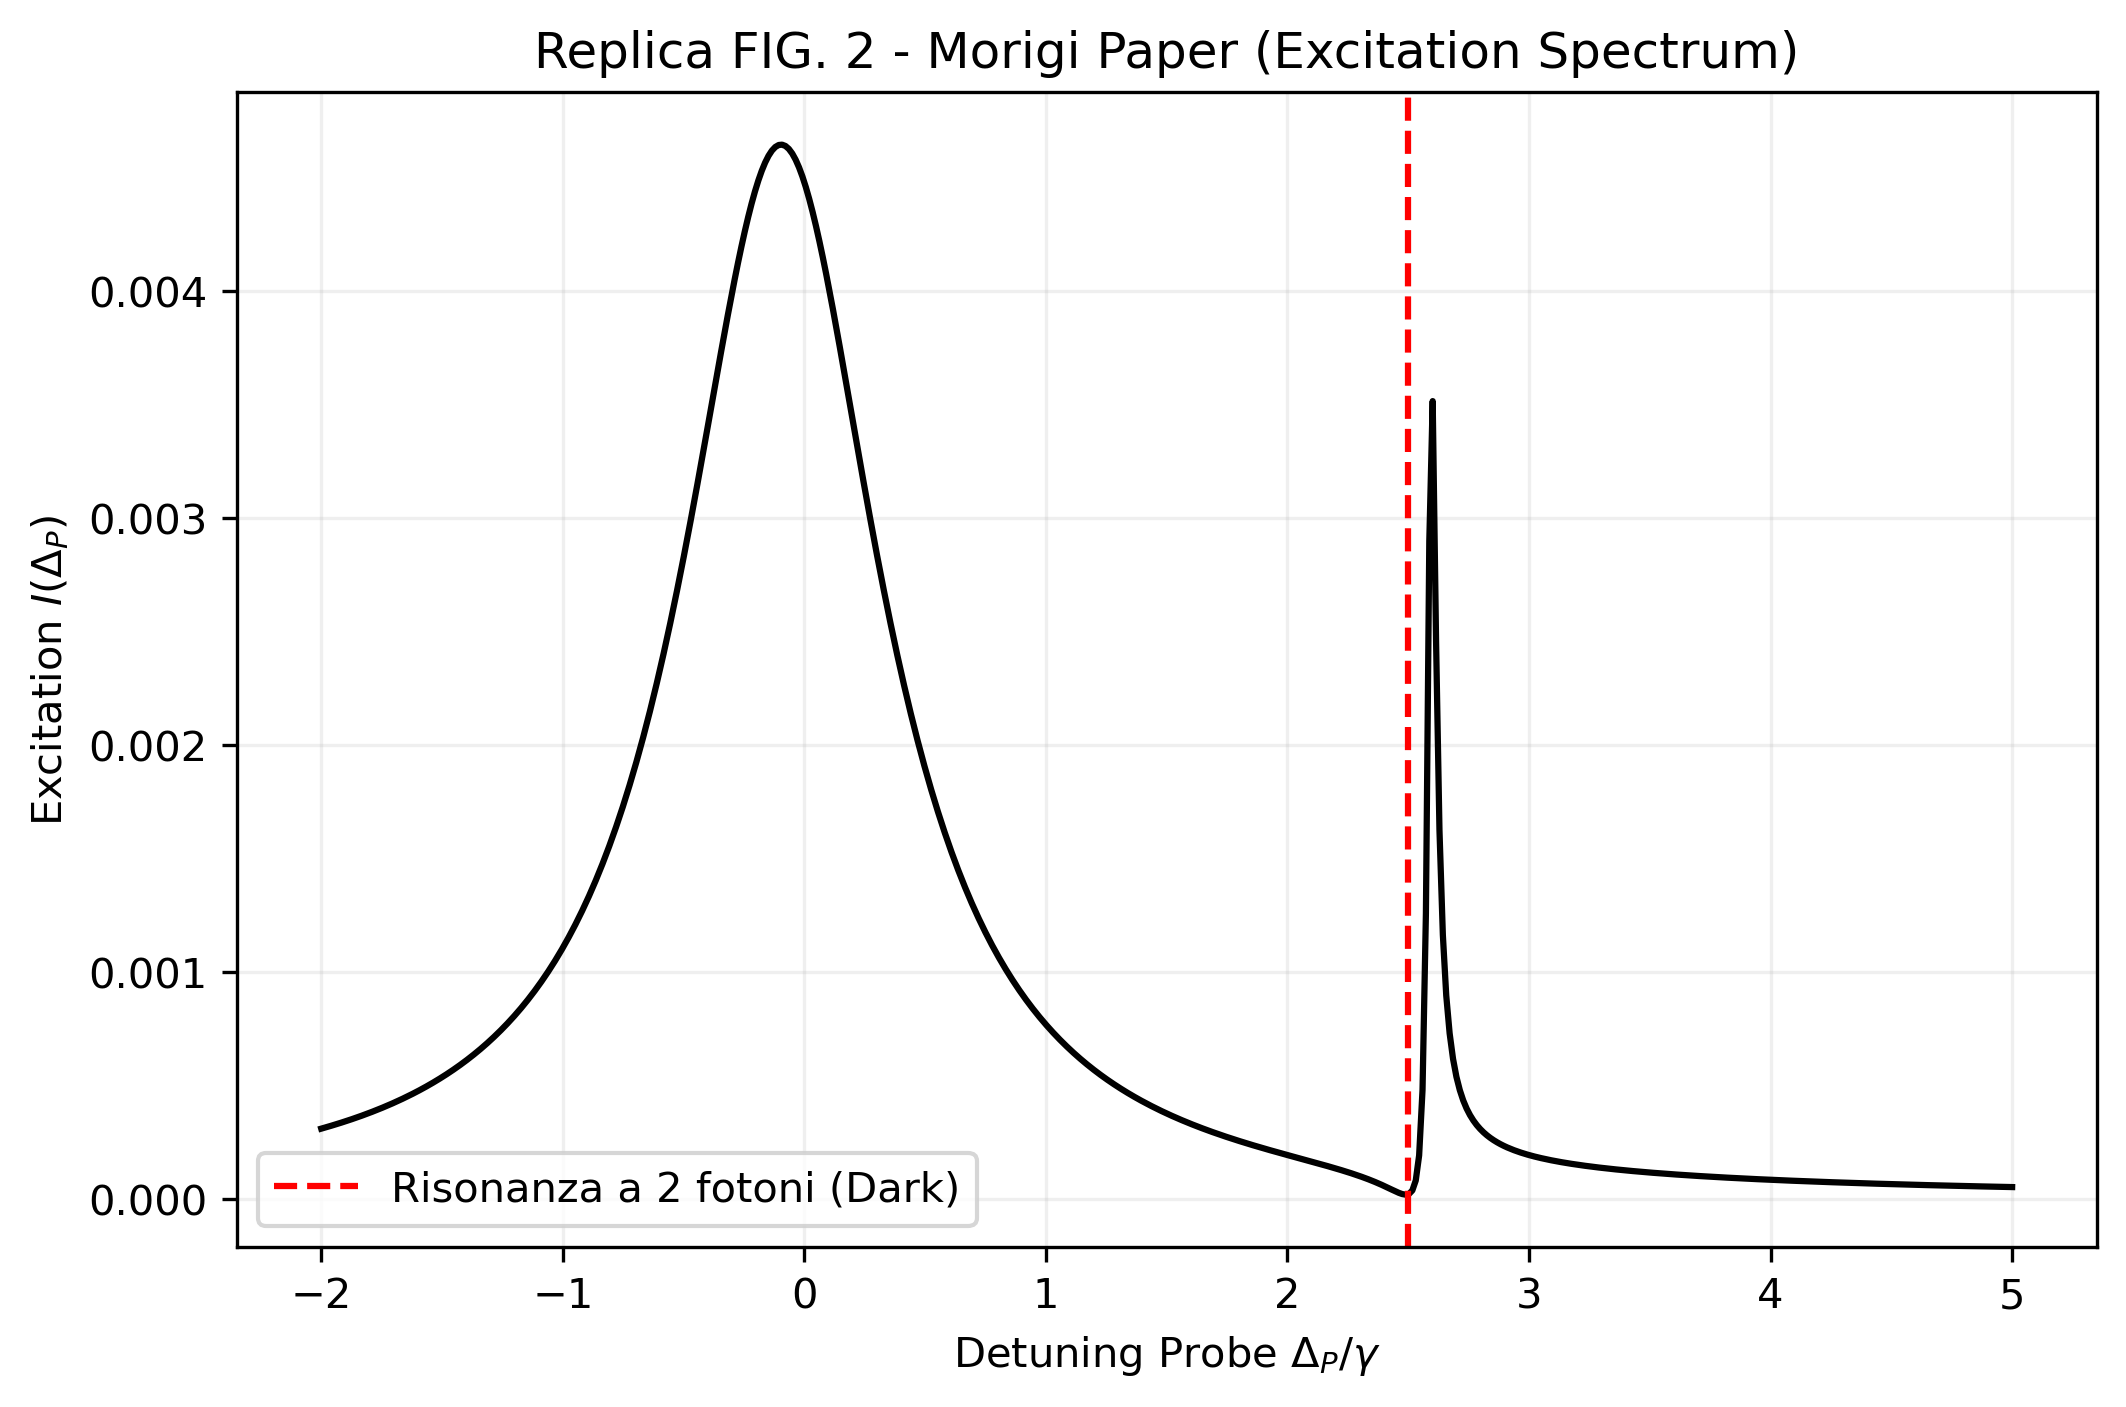
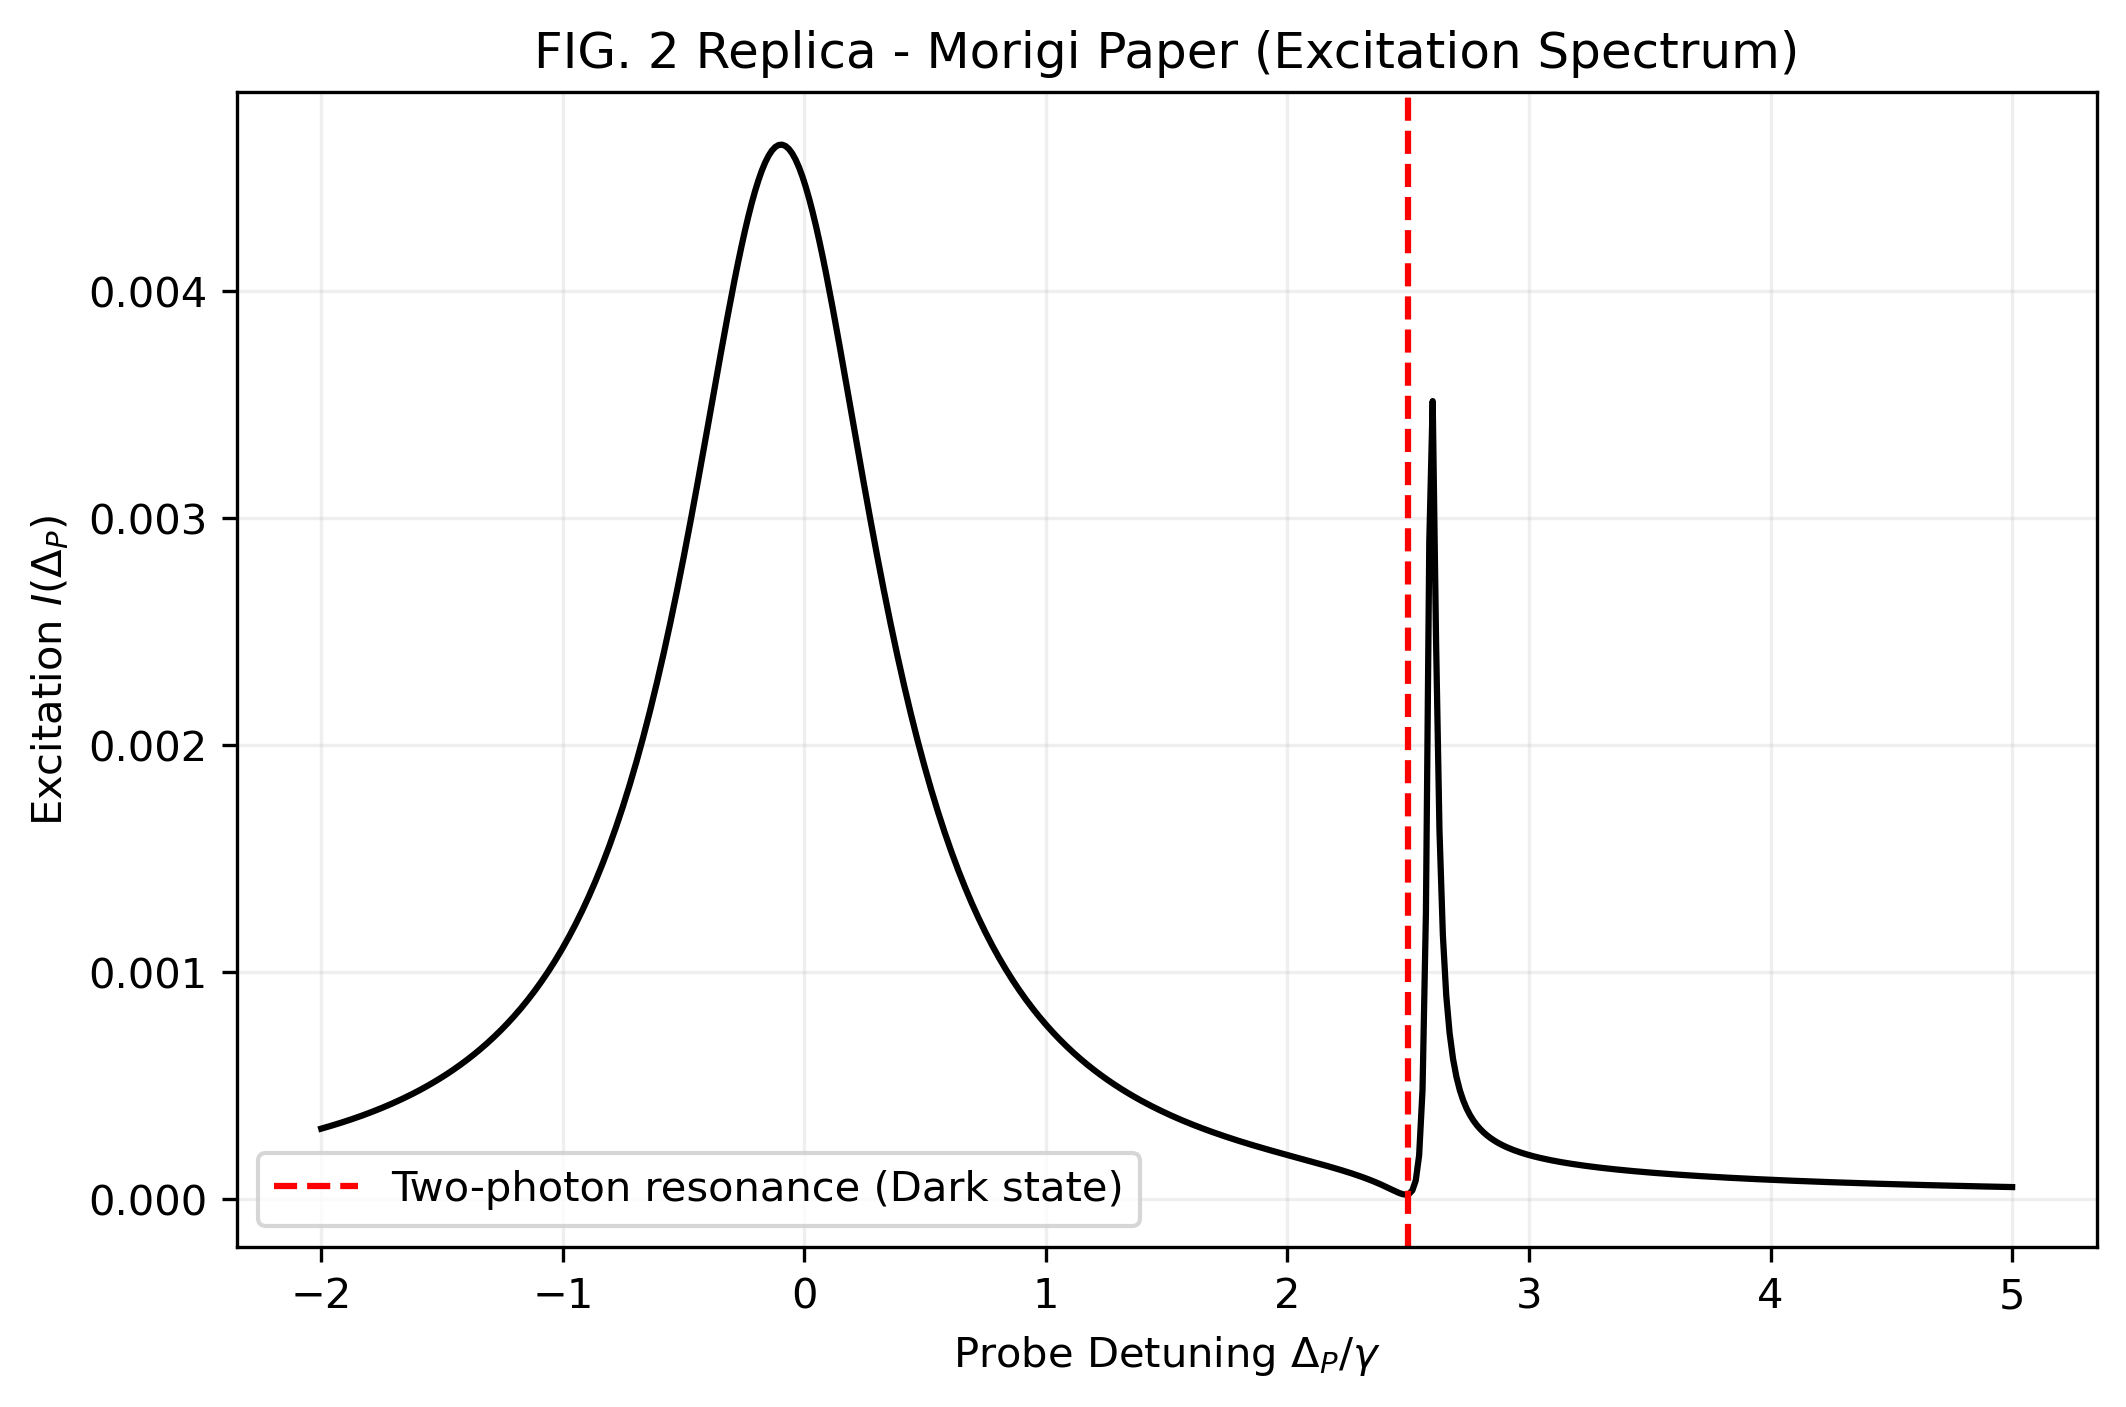
Translated everything to english

Changed region(s): [[0.1863, 0.8252, 0.5278, 0.8557], [0.2484, 0.0, 0.4036, 0.0611], [0.4346, 0.9474, 0.6209, 0.978]]

diff --git a/EIT_cooling/plotting.py b/EIT_cooling/plotting.py
@@ -4,26 +4,26 @@ import matplotlib.pyplot as plt
 from matplotlib.animation import FuncAnimation
 import numpy as np
 
-# --- 1. CONFIGURAZIONE PERCORSI ---
+# --- 1. PATH CONFIGURATION ---
 script_dir = os.path.dirname(os.path.abspath(__file__))
 
-# Percorso dati (Input)
+# Data path (Input)
 results_path = os.path.join(script_dir, 'results')
 filename = 'eit_simulation_results'
 full_load_path = os.path.join(results_path, filename)
 
-# Percorso grafici (Output)
+# Plots path (Output)
 plots_path = os.path.join(script_dir, 'plots')
 if not os.path.exists(plots_path):
     os.makedirs(plots_path)
-    print(f"Cartella creata: {plots_path}")
+    print(f"Folder created: {plots_path}")
 
-# --- 2. CARICAMENTO DATI ---
+# --- 2. DATA LOADING ---
 if os.path.exists(f"{full_load_path}.qu"):
     data = qload(full_load_path)
-    print(f"Dati caricati da: {full_load_path}.qu")
+    print(f"Data loaded from: {full_load_path}.qu")
 else:
-    raise FileNotFoundError(f"File non trovato: {full_load_path}.qu")
+    raise FileNotFoundError(f"File not found: {full_load_path}.qu")
 
 t_list = data['t_list']
 expect_n = data['expect_n']
@@ -36,71 +36,73 @@ Delta_p = params['Delta_p']
 nu = params['nu']
 N_vib = params['N_vib']
 
-# --- 3. SETUP FIGURA ---
+# --- 3. FIGURE SETUP ---
 fig = plt.figure(figsize=(18, 5))
 ax1 = fig.add_subplot(131)
 ax2 = fig.add_subplot(132)
 ax3 = fig.add_subplot(133)
 
 def update(frame):
-    # Saltiamo i frame per velocizzare l'animazione (coerente con frames=len//3)
+    # Skip frames to speed up animation (consistent with frames=len//3)
     step = frame * 3 
-    if step >= len(t_list): step = len(t_list)-1
+    if step >= len(t_list): 
+        step = len(t_list) - 1
     
     ax1.clear()
     ax2.clear()
     
-    # 1. Istogramma stati di Fock
+    # 1. Fock state histogram
     rho = states[step]
-    if rho.type == 'ket': rho = rho * rho.dag()
+    if rho.type == 'ket': 
+        rho = rho * rho.dag()
     n_pop = rho.ptrace(1).diag()
     n_avg = expect_n[step]
     
     ax1.bar(range(N_vib), n_pop.real, color='cyan', edgecolor='black')
-    ax1.set_title(f"Passo: {step} | <n> = {n_avg:.2f}")
+    ax1.set_title(f"Step: {step} | <n> = {n_avg:.2f}")
     ax1.set_ylim(0, 1)
-    ax1.set_xlabel("n (livello vibrazionale)")
-    ax1.set_ylabel("Popolazione")
+    ax1.set_xlabel("n (vibrational level)")
+    ax1.set_ylabel("Population")
     
-    # 2. Spettro Blue Detuned
+    # 2. Blue-detuned spectrum
     ax2.plot(det_scan, spec, 'k', lw=2)
     ax2.fill_between(det_scan, spec, color='blue', alpha=0.1)
     ax2.axvline(Delta_p, color='green', ls='--', label="Carrier")
     ax2.axvline(Delta_p - nu, color='red', lw=2, label="Red Sideband (Cooling)")
     ax2.axvline(Delta_p + nu, color='blue', lw=2, label="Blue Sideband (Heating)")
-    ax2.set_title("Profilo EIT")
+    ax2.set_title("EIT Profile")
     ax2.legend(loc='upper right', fontsize='small')
     ax2.set_xlabel("Detuning")
     
-    # 3. Evoluzione temporale <n>
+    # 3. Time evolution of <n>
     ax3.clear()
     ax3.plot(t_list, expect_n, 'k-', alpha=0.3)
     ax3.plot(t_list[step], n_avg, 'ro', markersize=8)
-    ax3.set_title(r"Evoluzione $\langle n \rangle$")
-    ax3.set_xlabel("Tempo")
+    ax3.set_title(r"Evolution $\langle n \rangle$")
+    ax3.set_xlabel("Time")
     ax3.set_ylim(0, max(expect_n) + 1)
 
-# --- 4. GENERAZIONE E SALVATAGGIO ---
+# --- 4. GENERATION AND SAVING ---
 
-# Creazione Animazione
-print("Generazione animazione in corso...")
+# Create animation
+print("Generating animation...")
 ani = FuncAnimation(fig, update, frames=len(t_list)//3, interval=50, repeat=False)
 
-# 1. Salva come GIF (richiede il pacchetto 'pillow' installato: pip install pillow)
+# 1. Save as GIF (requires 'pillow': pip install pillow)
 gif_path = os.path.join(plots_path, 'cooling_evolution.gif')
 try:
     ani.save(gif_path, writer='pillow', fps=20)
-    print(f"Animazione salvata in: {gif_path}")
+    print(f"Animation saved at: {gif_path}")
 except Exception as e:
-    print(f"Errore nel salvataggio GIF: {e}")
+    print(f"Error saving GIF: {e}")
 
-# 2. Salva l'ultimo frame come immagine statica PNG
-update(len(t_list)//3 - 1) # Porta la figura all'ultimo stato
+# 2. Save the last frame as a static PNG image
+update(len(t_list)//3 - 1)  # Move figure to final state
 img_path = os.path.join(plots_path, 'final_state.png')
 plt.savefig(img_path, dpi=300)
-print(f"Immagine finale salvata in: {img_path}")
+print(f"Final image saved at: {img_path}")
 
-# Mostra a video
+# Show on screen
 plt.tight_layout()
-print("Apertura finestra interattiva...")
+print("Opening interactive window...")
 plt.show()

diff --git a/Fano_profile.py b/Fano_profile.py
@@ -2,65 +2,64 @@ import numpy as np
 import matplotlib.pyplot as plt
 from qutip import *
 
-# Parametri presi dalla didascalia della FIG. 2 del PDF:
+# Parameters taken from FIG. 2 caption of the PDF:
 # Delta = 2.5 * gamma
 # Omega_control = 1.0 * gamma
 # Omega_probe = 0.05 * gamma
 
-gamma = 1.0             # Unità di misura
-Delta = 2.5 * gamma     # Detuning del laser di controllo
-Omega_c = 1.0 * gamma   # Rabi del controllo
-Omega_p = 0.05 * gamma  # Rabi del probe (molto debole)
-gamma_deph = 0.001 * gamma # Piccola decoerenza per stabilità numerica
+gamma = 1.0                 # Unit of measurement
+Delta = 2.5 * gamma         # Control laser detuning
+Omega_c = 1.0 * gamma       # Control Rabi frequency
+Omega_p = 0.05 * gamma      # Probe Rabi frequency (very weak)
+gamma_deph = 0.001 * gamma  # Small dephasing for numerical stability
 
-# 1. Definizione Base e Operatori
-g1 = basis(3, 0) # Ground per il probe
-g2 = basis(3, 1) # Ground per il controllo
-e  = basis(3, 2) # Stato eccitato
+# 1. Basis and operators definition
+g1 = basis(3, 0)  # Ground state for probe
+g2 = basis(3, 1)  # Ground state for control
+e  = basis(3, 2)  # Excited state
 
 sigma_eg1 = e * g1.dag()
 sigma_eg2 = e * g2.dag()
 
-# 2. Dissipazione (Kρ nel PDF)
-# Decadimento spontaneo verso i due stati di ground
+# 2. Dissipation (Kρ in the PDF)
+# Spontaneous decay into the two ground states
 c_ops = [np.sqrt(gamma/2) * g1 * e.dag(), 
          np.sqrt(gamma/2) * g2 * e.dag(),
          np.sqrt(gamma_deph) * (g1*g1.dag() - g2*g2.dag())]
 
-# 3. Scan del detuning del probe (Delta_P)
-# Scansioniamo intorno alla risonanza atomica
+# 3. Probe detuning scan (Delta_P)
+# Scan around atomic resonance
 detuning_probe_list = np.linspace(-2 * gamma, 5 * gamma, 500)
 absorption = []
 
 for dp in detuning_probe_list:
-    # Hamiltoniano in rotating frame (Eq. 3 e 4 del PDF)
-    # H = -Delta_p|g1><g1| - Delta|g2><g2| + Interazione
-    # Usiamo lo zero di energia sullo stato eccitato 'e'
+    # Hamiltonian in rotating frame (Eq. 3 and 4 of the PDF)
+    # H = -Delta_p|g1><g1| - Delta|g2><g2| + interaction
+    # We set energy zero at excited state 'e'
     H = -dp * (g1 * g1.dag()) - Delta * (g2 * g2.dag()) + \
         (Omega_p/2.0) * (sigma_eg1 + sigma_eg1.dag()) + \
         (Omega_c/2.0) * (sigma_eg2 + sigma_eg2.dag())
     
     rho_ss = steadystate(H, c_ops)
     
-    # L'assorbimento I(Delta_P) è proporzionale alla popolazione di 'e' 
-    # o alla parte immaginaria della coerenza del probe.
+    # Absorption I(Delta_P) is proportional to excited state population
     absorption.append(expect(e * e.dag(), rho_ss))
 
-# 4. Plot per confronto con FIG. 2
+# 4. Plot for comparison with FIG. 2
 plt.figure(figsize=(8, 5))
 plt.plot(detuning_probe_list, absorption, color='black', lw=1.5)
-plt.axvline(Delta, color='red', linestyle='--', label="Risonanza a 2 fotoni (Dark)")
-plt.title("Replica FIG. 2 - Morigi Paper (Excitation Spectrum)")
-plt.xlabel("Detuning Probe $\Delta_P / \gamma$")
+plt.axvline(Delta, color='red', linestyle='--', label="Two-photon resonance (Dark state)")
+plt.title("Excitation Spectrum")
+plt.xlabel("Probe Detuning $\Delta_P / \gamma$")
 plt.ylabel("Excitation $I(\Delta_P)$")
 plt.grid(True, alpha=0.2)
 plt.legend()
 
-# --- MODIFICA QUI PER SALVARE ---
-# Salva l'immagine nella cartella corrente
+# --- SAVE SECTION ---
+# Save image in current directory
 filename = "fano_profile.png"
 plt.savefig(filename, dpi=300, bbox_inches='tight')
-print(f"Grafico salvato come {filename}")
-# --------------------------------
+print(f"Plot saved as {filename}")
+# ---------------------
 
 plt.show()

diff --git a/EIT_cooling/simulation.py b/EIT_cooling/simulation.py
@@ -3,55 +3,55 @@ import numpy as np
 from qutip import *
 import config
 
-# --- GESTIONE PERCORSI ASSOLUTI ---
-# Trova la cartella dove si trova questo file (simulation.py)
-# Se il file è in /root/EIT_cooling_simulation/EIT_cooling/simulation.py, 
-# script_dir sarà /root/EIT_cooling_simulation/EIT_cooling/
+# --- ABSOLUTE PATH MANAGEMENT ---
+# Finds the folder where this file (simulation.py) is located
+# If the file is in /root/EIT_cooling_simulation/EIT_cooling/simulation.py,
+# script_dir will be /root/EIT_cooling_simulation/EIT_cooling/
 script_dir = os.path.dirname(os.path.abspath(__file__))
 results_path = os.path.join(script_dir, 'results')
 
-# Crea la cartella 'results' se non esiste
+# Create 'results' folder if it does not exist
 if not os.path.exists(results_path):
     os.makedirs(results_path)
-    print(f"Cartella creata: {results_path}")
+    print(f"Folder created: {results_path}")
 
 def run_simulation():
-    print(f"--- AVVIO SIMULAZIONE ---")
+    print(f"--- STARTING SIMULATION ---")
     print(f"Delta_c: {config.Delta_c}, Omega_c: {config.Omega_c:.3f}, nu: {config.nu}")
 
-    # 1. Operatori
-    # Definiamo lo spazio di Hilbert: (Atomo 3 livelli) x (Oscillatore N_vib)
+    # 1. Operators
+    # Define Hilbert space: (3-level atom) x (oscillator N_vib)
     a = tensor(qeye(3), destroy(config.N_vib))
     n_op = a.dag() * a
     
-    # Operatori atomici: 0=|g1>, 1=|g2>, 2=|e>
+    # Atomic operators: 0=|g1>, 1=|g2>, 2=|e>
     sig_eg1 = tensor(basis(3,2) * basis(3,0).dag(), qeye(config.N_vib))
     sig_eg2 = tensor(basis(3,2) * basis(3,1).dag(), qeye(config.N_vib))
     proj_g1 = tensor(basis(3,0) * basis(3,0).dag(), qeye(config.N_vib))
     proj_g2 = tensor(basis(3,1) * basis(3,1).dag(), qeye(config.N_vib))
 
-    # 2. Hamiltoniana
+    # 2. Hamiltonian
     H = (-config.Delta_p * proj_g1 - config.Delta_c * proj_g2 + config.nu * n_op +
          (config.Omega_c/2.0) * (sig_eg2 + sig_eg2.dag()) +
          (config.Omega_p/2.0) * (sig_eg1 * (1 + 1j * config.eta * (a + a.dag())) + 
                           sig_eg1.dag() * (1 - 1j * config.eta * (a + a.dag()))))
 
-    # Operatori di collasso
+    # Collapse operators
     c_ops = [np.sqrt(config.gamma/2) * sig_eg1.dag(), 
              np.sqrt(config.gamma/2) * sig_eg2.dag()]
 
-    # 3. Risoluzione Master Equation
-    print("Risoluzione dinamica (mesolve)...")
+    # 3. Master equation solution
+    print("Solving dynamics (mesolve)...")
     
-    # Utilizzo dell'oggetto Options (necessario per QuTiP 4.x)
+    # Using Options object (required in QuTiP 4.x)
     opts = Options(nsteps=10000, store_states=True)
     
     result = mesolve(H, config.psi0, config.t_list, c_ops, [n_op], 
                      options=opts, 
                      progress_bar=True)
 
-    # 4. Spettro EIT (Steady State Scan)
-    print("Calcolo spettro EIT...")
+    # 4. EIT spectrum (steady-state scan)
+    print("Computing EIT spectrum...")
     det_scan = np.linspace(config.Delta_c - 1.5, config.Delta_c + 0.5, 400)
     spec = []
     for d in det_scan:
@@ -65,7 +65,7 @@ def run_simulation():
         rho_s = steadystate(H_at, c_ops_at)
         spec.append(expect(basis(3,2)*basis(3,2).dag(), rho_s))
 
-    # 5. Salvataggio Dati (Gestione Percorso Robusta)
+    # 5. Data saving (robust path handling)
     data_to_save = {
         't_list': config.t_list,
         'expect_n': result.expect[0],
@@ -81,15 +81,15 @@ def run_simulation():
         }
     }
     
-    # Prende solo il nome del file dal config (es: "eit_simulation_results.qu" -> "eit_simulation_results")
+    # Extracts only filename from config path
     filename = os.path.basename(config.SAVE_PATH).replace('.qu', '')
     
-    # Crea il percorso finale assoluto: /root/.../EIT_cooling/results/eit_simulation_results
+    # Builds full absolute path
     final_path = os.path.join(results_path, filename)
     
     qsave(data_to_save, final_path)
-    print(f"\n--- SIMULAZIONE COMPLETATA ---")
-    print(f"Dati salvati con successo in: {final_path}.qu")
+    print(f"\n--- SIMULATION COMPLETED ---")
+    print(f"Data successfully saved to: {final_path}.qu")
 
 if __name__ == "__main__":
     run_simulation()

diff --git a/EIT_cooling/config.py b/EIT_cooling/config.py
@@ -1,24 +1,24 @@
 import numpy as np
 from qutip import basis, tensor, fock, qeye
 
-# --- PARAMETRI FISICI ---
+# --- PHYSICAL PARAMETERS ---
 gamma = 1.0         
-nu = 0.5 * gamma    # Frequenza trappola
+nu = 0.5 * gamma    # Trap frequency
 Delta_c = -15.0 * gamma 
 Delta_p = Delta_c   
 
-# Condizione Stark shift per EIT cooling
+# Stark shift condition for EIT cooling
 Omega_c = np.sqrt(4 * np.abs(Delta_c) * nu) 
-eta = 0.35          # Lamb-Dicke
+eta = 0.35          # Lamb-Dicke parameter
 Omega_p = 0.3 * gamma 
 N_vib = 25          
 
-# --- PARAMETRI SIMULAZIONE ---
+# --- SIMULATION PARAMETERS ---
 t_stop = 3500
 t_points = 200
 t_list = np.linspace(0, t_stop, t_points)
 
-# Stato iniziale: atomo in g1, oscillatore in stato di Fock n=15
+# Initial state: atom in g1, oscillator in Fock state n=15
 psi0 = tensor(basis(3,0), fock(N_vib, 15))
 
 # --- PATH ---